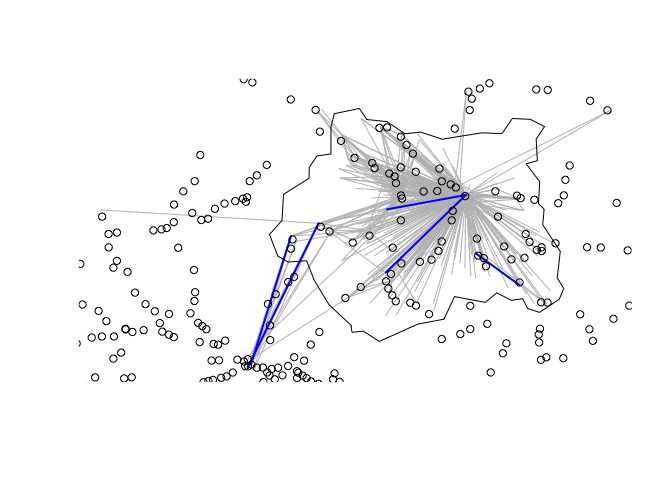
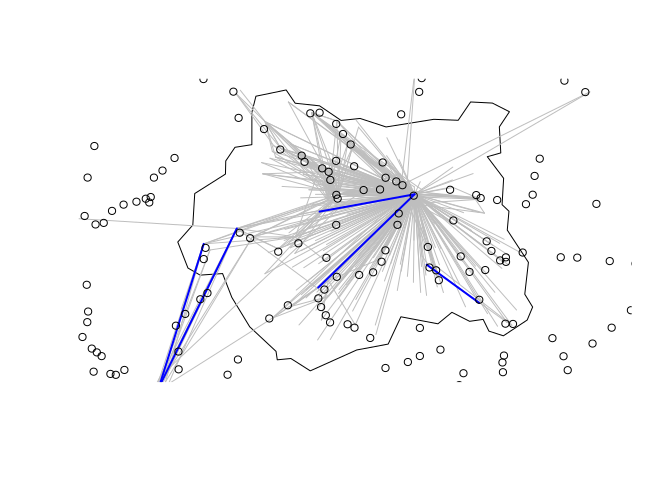
Update rail analysis with viaroute

diff --git a/README.md b/README.md
@@ -1,7 +1,7 @@
 
 <!-- README.md is generated from README.Rmd. Please edit that file -->
 
-# Estimating cycling potential to rail stations
+# 1 Estimating cycling potential to rail stations
 
 <!-- badges: start -->
 
@@ -12,74 +12,61 @@ The goal of this repo is to explore methods for calculating cycling
 potential to public transport nodes, rail stations in the first
 instance.
 
-# OD data
+# 2 OD data
 
 The input data consists of origin-destination pairs. These can be
 obtained from a range of sources. We will use open OD data from the 2011
 UK Census to demonstrate the methods. A random sample of OD pairs from
 the national dataset is shown below.
 
-    #> No region provided. Returning national OD data.
-    #> 
-    #> ── Column specification ────────────────────────────────────────────────────────
-    #> cols(
-    #>   `Area of residence` = col_character(),
-    #>   `Area of workplace` = col_character(),
-    #>   `All categories: Method of travel to work` = col_double(),
-    #>   `Work mainly at or from home` = col_double(),
-    #>   `Underground, metro, light rail, tram` = col_double(),
-    #>   Train = col_double(),
-    #>   `Bus, minibus or coach` = col_double(),
-    #>   Taxi = col_double(),
-    #>   `Motorcycle, scooter or moped` = col_double(),
-    #>   `Driving a car or van` = col_double(),
-    #>   `Passenger in a car or van` = col_double(),
-    #>   Bicycle = col_double(),
-    #>   `On foot` = col_double(),
-    #>   `Other method of travel to work` = col_double()
-    #> )
-    #> 
-    #> ── Column specification ────────────────────────────────────────────────────────
-    #> cols(
-    #>   MSOA11CD = col_character(),
-    #>   MSOA11NM = col_character(),
-    #>   BNGEAST = col_double(),
-    #>   BNGNORTH = col_double(),
-    #>   LONGITUDE = col_double(),
-    #>   LATITUDE = col_double()
-    #> )
-    #> 
-    #> 
-    #> ── Column specification ────────────────────────────────────────────────────────
-    #> cols(
-    #>   MSOA11CD = col_character(),
-    #>   MSOA11NM = col_character(),
-    #>   BNGEAST = col_double(),
-    #>   BNGNORTH = col_double(),
-    #>   LONGITUDE = col_double(),
-    #>   LATITUDE = col_double()
-    #> )
+| geo\_code1 | geo\_code2 | all | from\_home | light\_rail | train | bus | taxi | motorbike | car\_driver | car\_passenger | bicycle | foot | other | geo\_name1       | geo\_name2         | la\_1        | la\_2          |
+|:-----------|:-----------|----:|-----------:|------------:|------:|----:|-----:|----------:|------------:|---------------:|--------:|-----:|------:|:-----------------|:-------------------|:-------------|:---------------|
+| E02004474  | E02000916  |   2 |          0 |           0 |     0 |   0 |    0 |         0 |           2 |              0 |       0 |    0 |     0 | Castle Point 002 | Waltham Forest 022 | Castle Point | Waltham Forest |
+| E02000512  | E02003707  |   2 |          0 |           0 |     0 |   0 |    0 |         0 |           2 |              0 |       0 |    0 |     0 | Hillingdon 019   | Wycombe 012        | Hillingdon   | Wycombe        |
+| E02000371  | E02000735  |   1 |          0 |           0 |     0 |   0 |    0 |         0 |           0 |              0 |       1 |    0 |     0 | Hackney 027      | Newham 022         | Hackney      | Newham         |
 
-| geo_code1 | geo_code2 | all | from_home | light_rail | train | bus | taxi | motorbike | car_driver | car_passenger | bicycle | foot | other | geo_name1                | geo_name2     | la_1                 | la_2      |
-|:----------|:----------|----:|----------:|-----------:|------:|----:|-----:|----------:|-----------:|--------------:|--------:|-----:|------:|:-------------------------|:--------------|:---------------------|:----------|
-| E02001057 | E02001125 |   8 |         0 |          0 |     0 |   3 |    0 |         0 |          5 |             0 |       0 |    0 |     0 | Manchester 013           | Oldham 028    | Manchester           | Oldham    |
-| E02002533 | E02005866 |   1 |         0 |          0 |     0 |   0 |    0 |         0 |          1 |             0 |       0 |    0 |     0 | Redcar and Cleveland 019 | Gedling 002   | Redcar and Cleveland | Gedling   |
-| E02001145 | E02002459 |   1 |         0 |          0 |     0 |   0 |    0 |         0 |          1 |             0 |       0 |    0 |     0 | Rochdale 014             | Wakefield 022 | Rochdale             | Wakefield |
+The case study region of West Yorkshire is used to subset the dataset of
+2402201 OD pairs to records representing trips originating in the region
+(95915 rows). In a further subsetting stage only OD pairs with more than
+a threshold number of trips were kept to focus the analysis on desire
+lines in which large numbers of people travel by train. Setting this
+threshold to 10 people by results in 447 rows in the case study region.
+These rail trips are illustrated in Figure
+<a href="#fig:simpleraildesire">2.1</a> below.
 
-The case study region of West Yorkshire is used to subset the data. OD
-pairs with more than 50 people by any mode and with more than 50 people
-travelling by rail are shown below.
+<div class="figure">
 
-    #> 0 origins with no match in zone ids
-    #> 618 destinations with no match in zone ids
-    #>  points not in od data removed.
+<img src="README_files/figure-gfm/simpleraildesire-1.png" alt="Illustration of major commute desire lines originating in West Yorkshire by any mode (black) and by rail (blue)."  />
+<p class="caption">
+Figure 2.1: Illustration of major commute desire lines originating in
+West Yorkshire by any mode (black) and by rail (blue).
+</p>
 
-![](README_files/figure-gfm/unnamed-chunk-3-1.png)<!-- -->
+</div>
 
-# Rail station data
+# 3 Rail station data
 
-![](README_files/figure-gfm/railsample-1.png)<!-- -->
+Data on rail station locations was obtained from the
+[naptan.app.dft.gov.uk](http://naptan.app.dft.gov.uk) website. The
+multi-stage trips from home to work via rail stations is shown in Figure
+<a href="#fig:railsample">3.1</a> below. This graphic assumes
+simplistically that the first stage of rail journeys was to the nearest
+station, that the rail journey went to the station closes to their
+destination, and that trips involve travelling in a straight line (an
+assumption we will remove in the next section).
 
-# Transit routing
+<div class="figure">
 
-# Discussion
+<img src="README_files/figure-gfm/railsample-1.png" alt="Illustration of desire lines with high numbers of rail trips, focussing on a sample of 5, assuming straight line travel (left) and assuming trips travel via the nearest station to the origin and destination (right)." width="49%" /><img src="README_files/figure-gfm/railsample-2.png" alt="Illustration of desire lines with high numbers of rail trips, focussing on a sample of 5, assuming straight line travel (left) and assuming trips travel via the nearest station to the origin and destination (right)." width="49%" />
+<p class="caption">
+Figure 3.1: Illustration of desire lines with high numbers of rail
+trips, focussing on a sample of 5, assuming straight line travel (left)
+and assuming trips travel via the nearest station to the origin and
+destination (right).
+</p>
+
+</div>
+
+# 4 Transit routing
+
+# 5 Discussion
